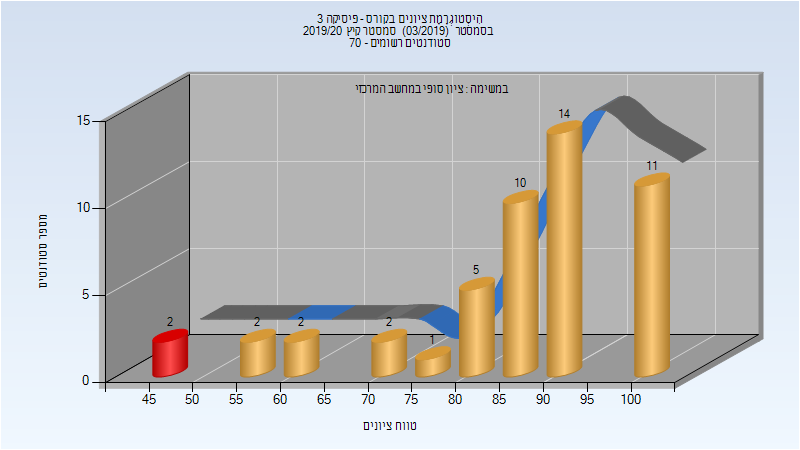
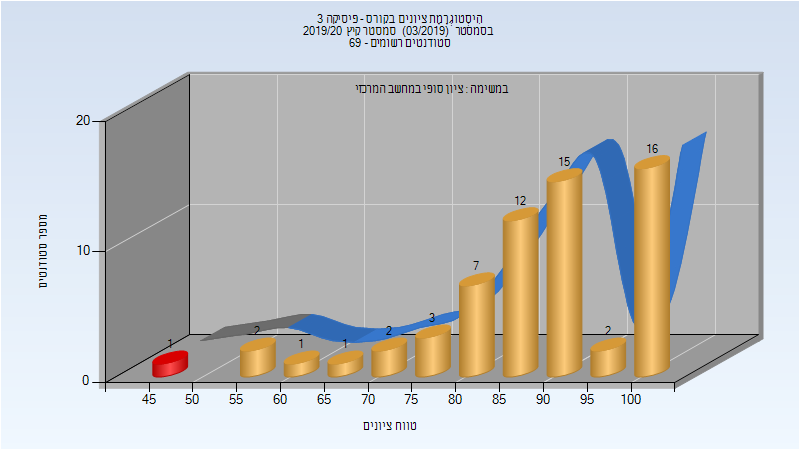
Deploy michael-maltsev/technion-histograms to github.com/michael-maltsev/technion-histograms.git:gh-pages

diff --git a/114054/index.html b/114054/index.html
@@ -1495,6 +1495,32 @@
 </tr>
 </tbody>
 </table>
+<h3>סופי מועד ב'</h3>
+<p><img src="201903/Final_B.png" alt="201903 Final_B" /></p>
+<table>
+<thead>
+<tr>
+<th>סטודנטים</th>
+<th>עברו/נכשלו</th>
+<th>אחוז עוברים</th>
+<th>ציון מינימלי</th>
+<th>ציון מקסימלי</th>
+<th>ממוצע</th>
+<th>חציון</th>
+</tr>
+</thead>
+<tbody>
+<tr>
+<td>18</td>
+<td>17/1</td>
+<td>94</td>
+<td>46</td>
+<td>100</td>
+<td>83.611</td>
+<td>89</td>
+</tr>
+</tbody>
+</table>
 <h3>סופי</h3>
 <p><img src="201903/Finals.png" alt="201903 Finals" /></p>
 <table>
@@ -1511,12 +1537,12 @@
 </thead>
 <tbody>
 <tr>
-<td>49</td>
-<td>47/2</td>
-<td>96</td>
-<td>45</td>
+<td>62</td>
+<td>61/1</td>
+<td>98</td>
+<td>46</td>
 <td>100</td>
-<td>86.776</td>
+<td>88.581</td>
 <td>94</td>
 </tr>
 </tbody>

diff --git a/114054/README.md b/114054/README.md
@@ -475,11 +475,19 @@
 | ---- | ---- | ---- | ---- | ---- | ---- | ---- |
 | 49 | 47/2 | 96 | 45 | 100 | 86.776 | 94 |
 
+### סופי מועד ב'
+
+![201903 Final_B](201903/Final_B.png)
+
+| סטודנטים | עברו/נכשלו | אחוז עוברים | ציון מינימלי | ציון מקסימלי | ממוצע | חציון |
+| ---- | ---- | ---- | ---- | ---- | ---- | ---- |
+| 18 | 17/1 | 94 | 46 | 100 | 83.611 | 89 |
+
 ### סופי
 
 ![201903 Finals](201903/Finals.png)
 
 | סטודנטים | עברו/נכשלו | אחוז עוברים | ציון מינימלי | ציון מקסימלי | ממוצע | חציון |
 | ---- | ---- | ---- | ---- | ---- | ---- | ---- |
-| 49 | 47/2 | 96 | 45 | 100 | 86.776 | 94 |
+| 62 | 61/1 | 98 | 46 | 100 | 88.581 | 94 |
 
